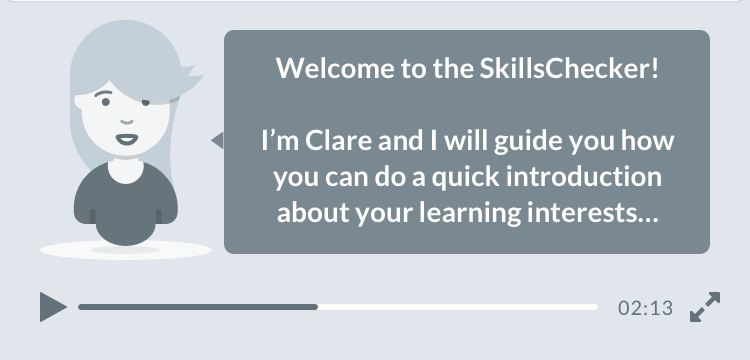
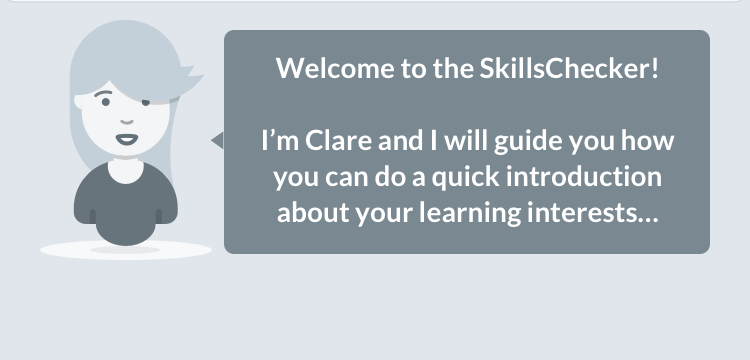
Updated API calls and add sessionStorage usage

Changed region(s): [[0.0307, 0.825, 0.7973, 0.8861], [0.92, 0.7944, 0.9813, 0.9167], [0.828, 0.825, 0.8893, 0.8861]]

diff --git a/src/app/services/courses.service.ts b/src/app/services/courses.service.ts
@@ -1,7 +1,7 @@
 import { Injectable } from '@angular/core';
 import { HttpClient } from '@angular/common/http';
 import { Course } from '../models/course';
-import { Observable } from 'rxjs';
+import { Observable, of } from 'rxjs';
 import { map } from 'rxjs/operators';
 import { CommonService } from './common.service';
 import { Result } from '../models/result';
@@ -13,7 +13,7 @@ export class CoursesService {
 
   constructor(private httpClient: HttpClient, private commonService: CommonService) { }
 
-  loadCourses(
+  retrieveCourses(
     results: Result,
     location?: string
     ): Observable<Course[]> {
@@ -41,11 +41,40 @@ export class CoursesService {
     }
     return this.httpClient.get(this.commonService.getApiUrl() + url)
       .pipe(map( (data: Course[]) => {
+        this.resetStorage();
         data.map( (course: Course) => {
           course.priority = results[course.skill].priority;
+          this.saveCourse(course);
         });
         return data;
       })
     );
+  }
+
+  retrieveCourse(courseid: number): Observable<Course> {
+    const url = `/courses/${courseid}`;
+    return this.httpClient.get(this.commonService.getApiUrl() + url)
+      .pipe(map( (data: Course) => {
+        this.saveCourse(data);
+        return data;
+      })
+    );
+  }
+
+  saveCourse(course: Course): void {
+    sessionStorage.setItem('' + course.id, JSON.stringify(course));
+  }
+
+  loadCourse(courseid: number): Observable<Course> {
+    const course: Course = JSON.parse(sessionStorage.getItem(courseid + ''));
+    if (!!course) {
+        return of(course);
+    } else {
+      return this.retrieveCourse(courseid);
+    }
+  }
+
+  resetStorage(): void {
+    sessionStorage.clear();
   }
 }

diff --git a/src/app/components/screens/localization-screen/localization-screen.component.ts b/src/app/components/screens/localization-screen/localization-screen.component.ts
@@ -63,11 +63,18 @@ export class LocalizationScreenComponent implements OnInit {
   }
 
   ngOnInit() {
-    this.setCounty('all');
+    if (sessionStorage.length > 0) {
+      this.courses = [];
+      for (let i = 0; i < sessionStorage.length; i++) {
+        this.courses.push(JSON.parse(sessionStorage.getItem(sessionStorage.key(i))));
+      }
+    } else {
+      this.setCounty('all');
+    }
   }
 
   loadCourses(results: Result, location: string): Observable<Course[]> {
-    return this.courseService.loadCourses(results, location);
+    return this.courseService.retrieveCourses(results, location);
   }
 
   setCounty(county: string) {

diff --git a/src/app/components/screens/results-screen/results-screen.component.ts b/src/app/components/screens/results-screen/results-screen.component.ts
@@ -33,7 +33,7 @@ export class ResultsScreenComponent implements OnInit {
     // ) {
     //   this.commonService.goTo('');
     // }
-    // DELETE demo data
+    // DELETE demo data and rerouting
     this.results = this.dataProcessingService.getResults(
 
       {
@@ -420,7 +420,7 @@ export class ResultsScreenComponent implements OnInit {
   }
 
   loadCourses(results: Result): Observable<Course[]> {
-    return this.coursesService.loadCourses(results);
+    return this.coursesService.retrieveCourses(results);
   }
 
   loadLink(link: string): void {

diff --git a/src/app/components/screens/orientation-screen/orientation-screen.component.html b/src/app/components/screens/orientation-screen/orientation-screen.component.html
@@ -1,5 +1,5 @@
 <app-header text='default'></app-header>
-<app-media resource='orientation.mp4'></app-media>
+<app-media resource='orientation.png'></app-media>
 <div id="description">
   <div class="main">
     Do you want to learn new skills to improve your life?
